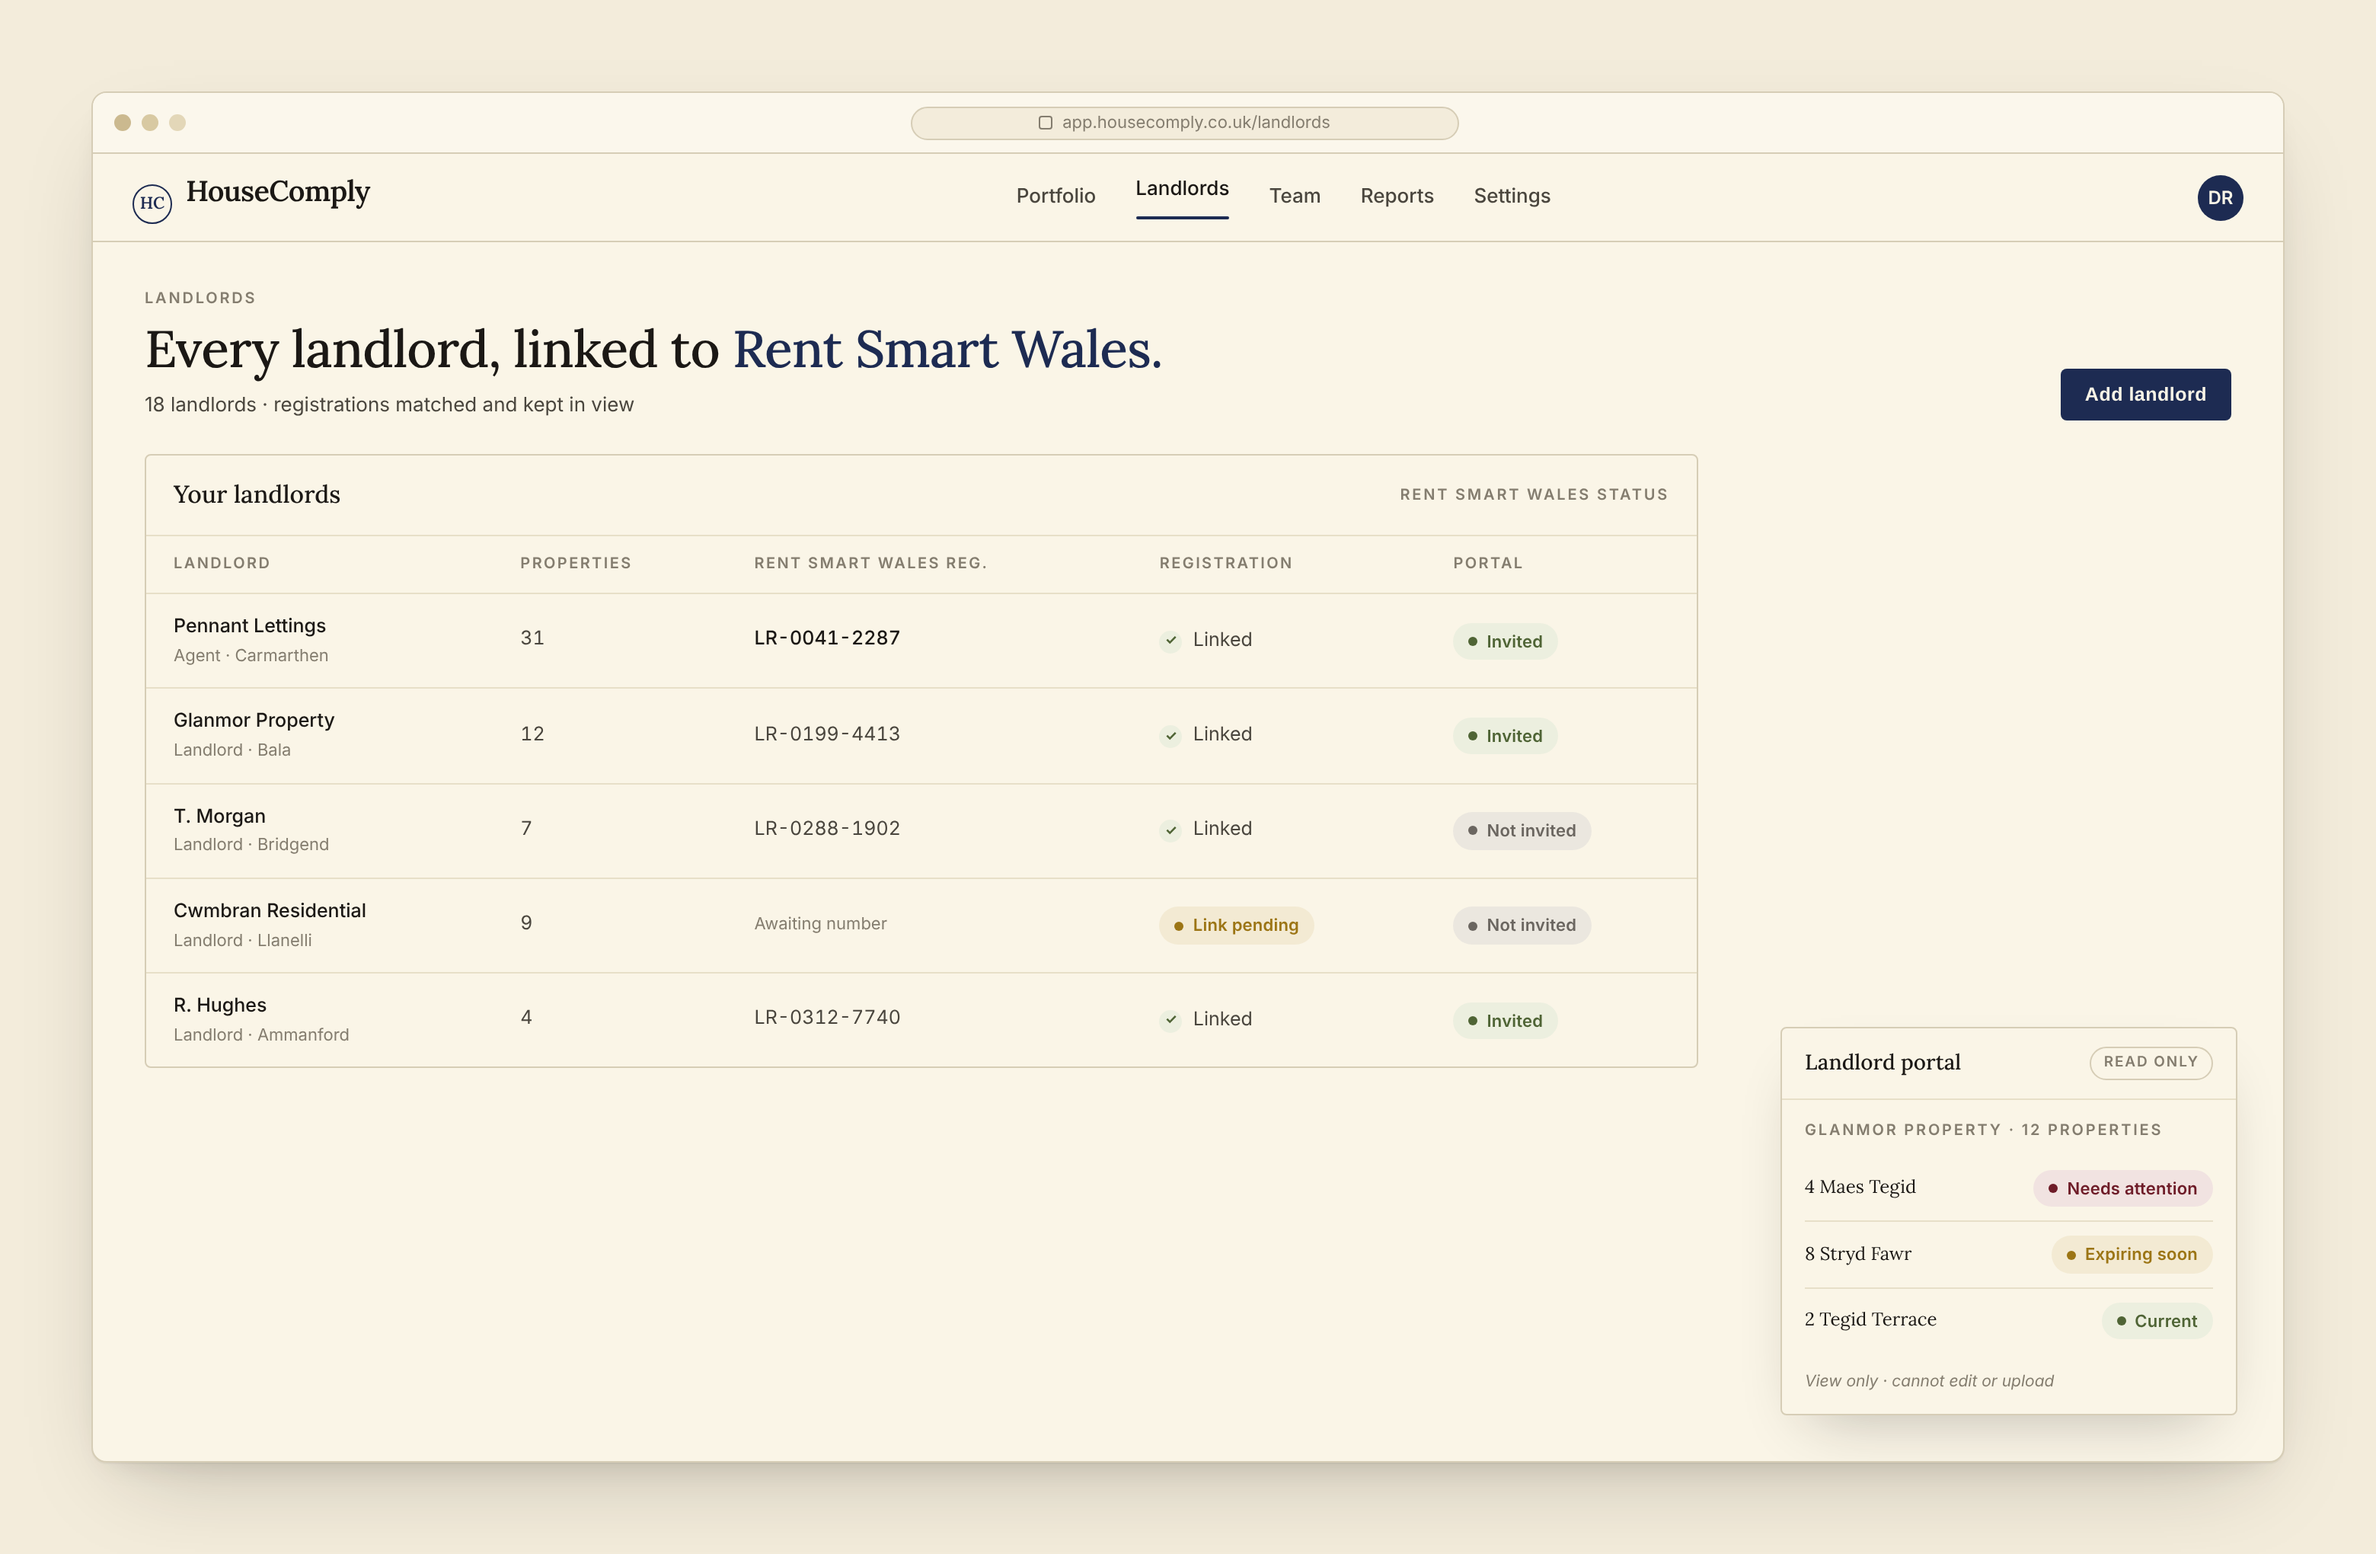
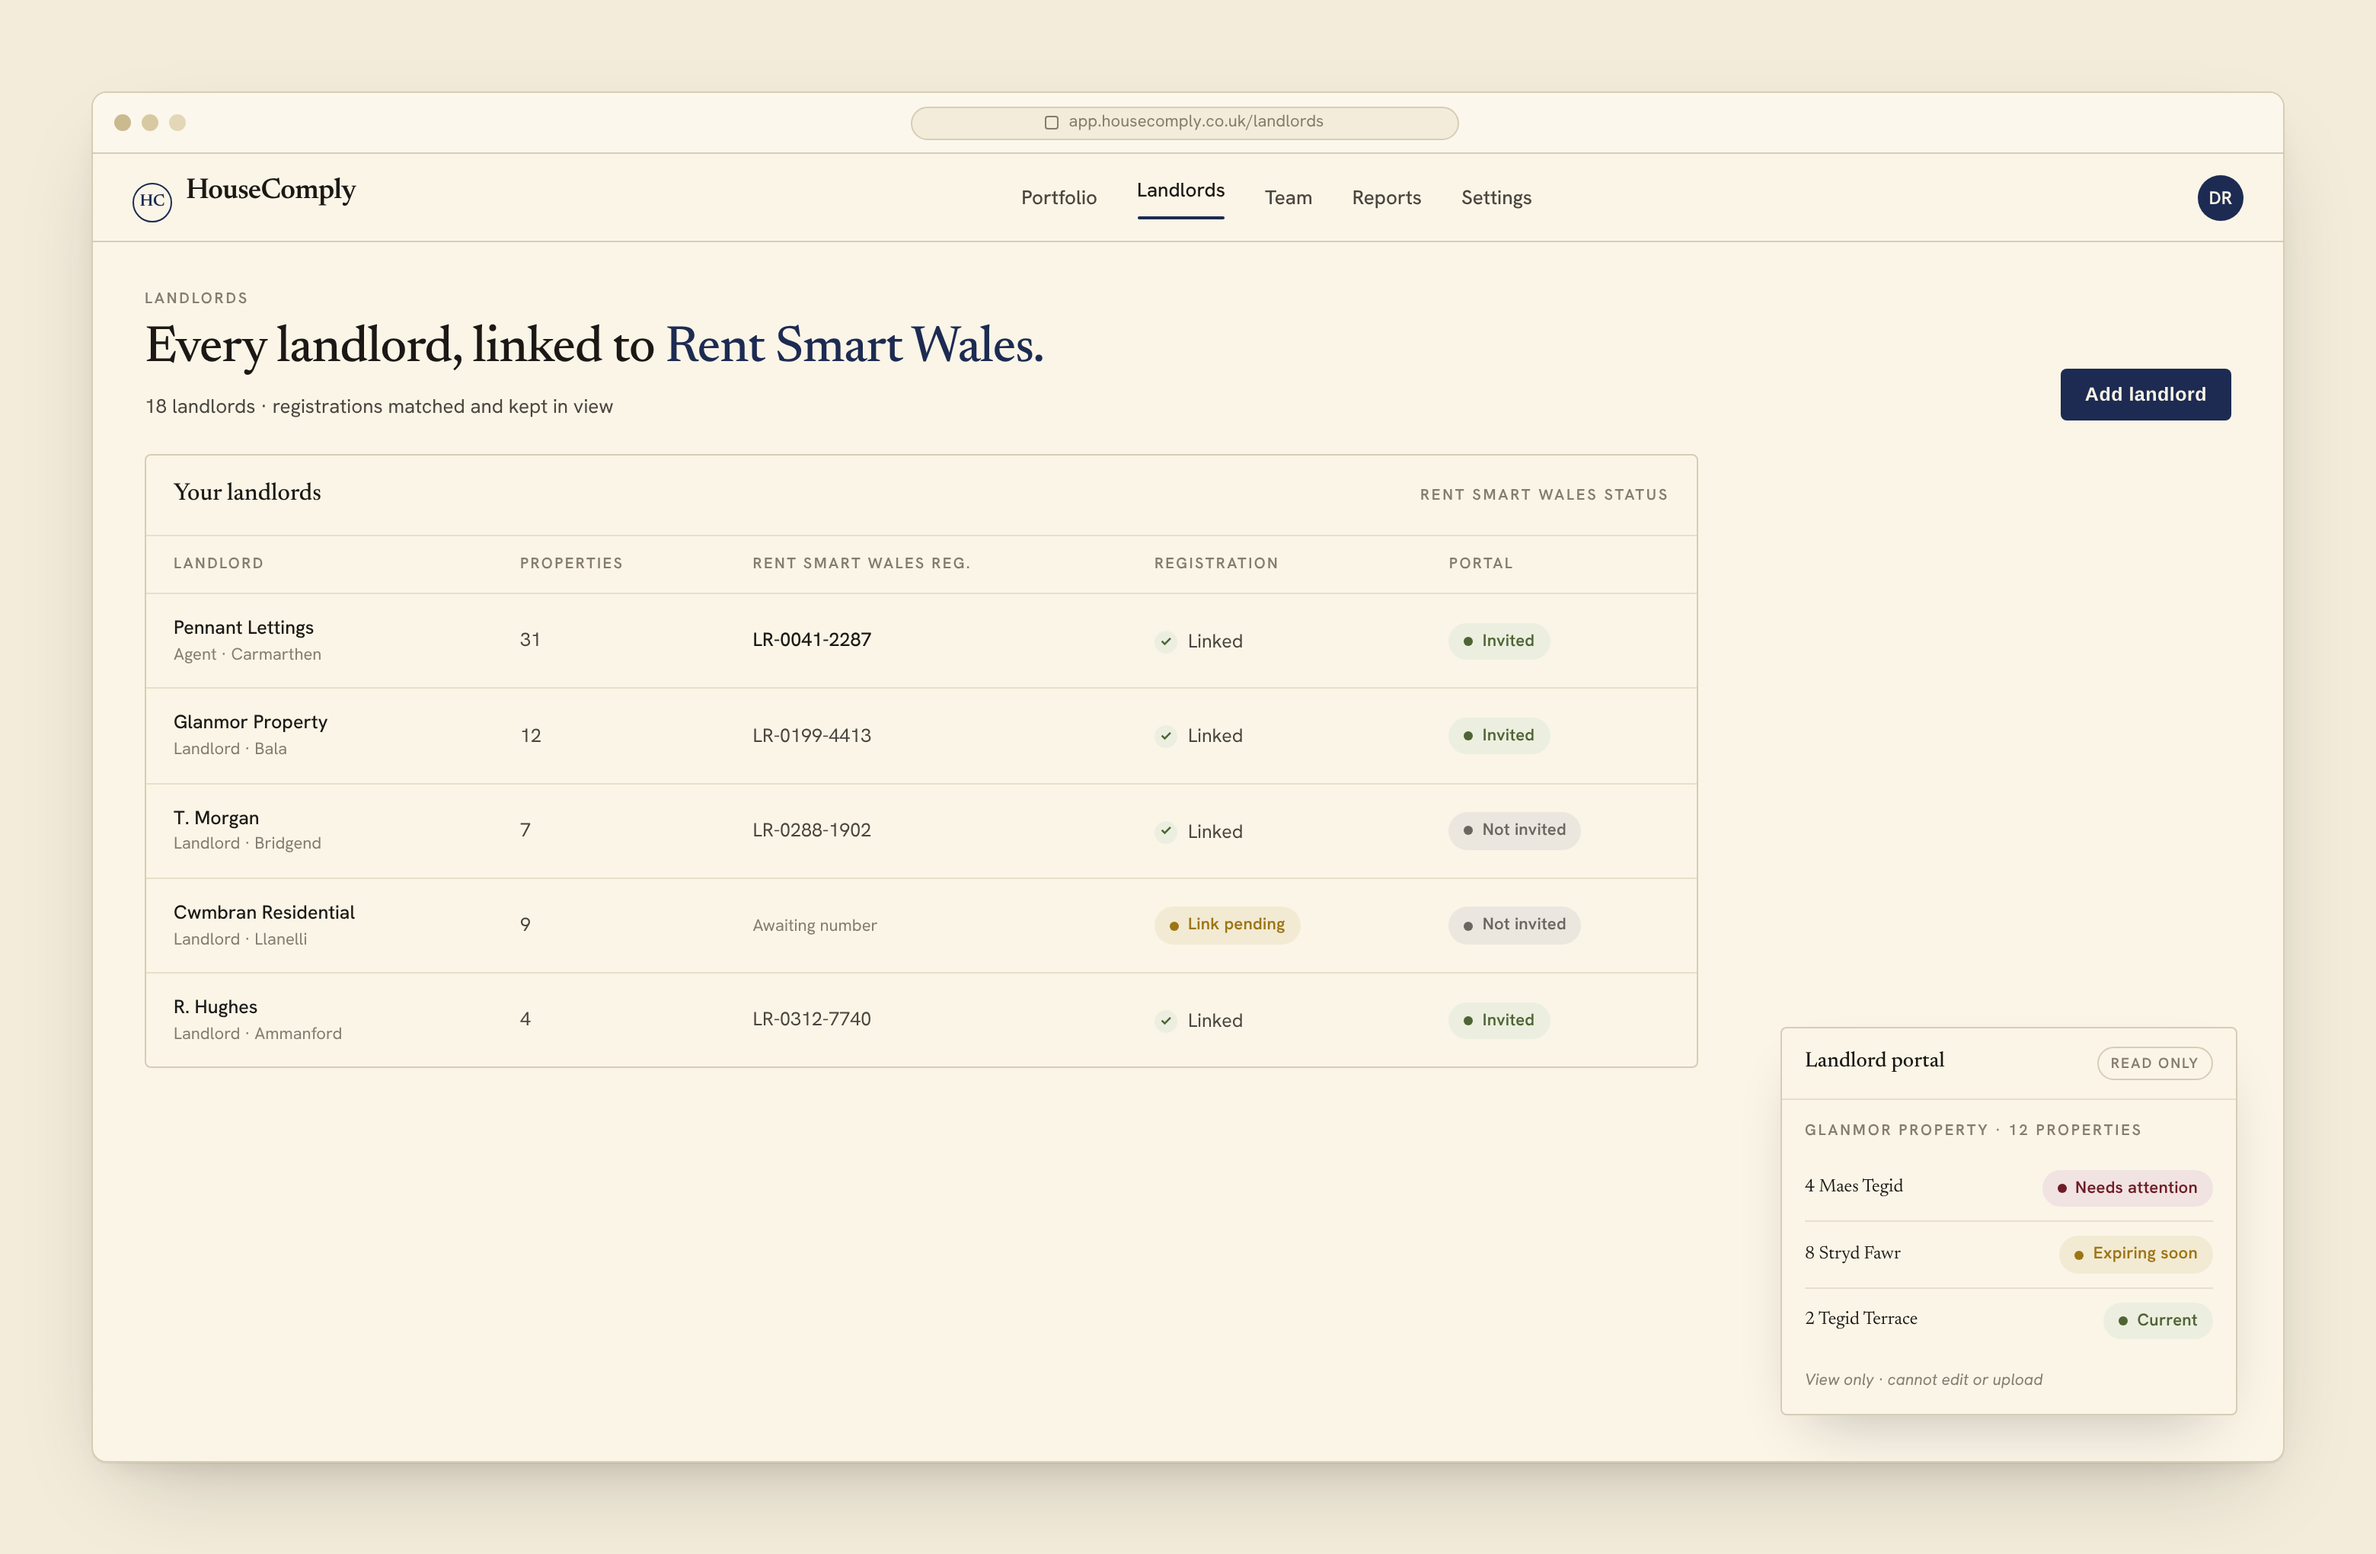
Re-render showcase screens in real brand fonts (Newsreader + Hanken Grotesk)
Swap the Lora/Inter stand-in stacks in build/app.css for the real brand
fonts (Newsreader serif, Hanken Grotesk sans), installed locally from the
google/fonts repo since the Google Fonts CDN is blocked in the sandbox.
Keep the Georgia/system-ui fallbacks. Re-render all four comps at 2x.
Demo data only: invented names, fake addresses, no emails, no RSW numbers.

Claude-Session: https://claude.ai/code/session_016ZQVbkcFvkTxsMCZ5vpTpg

diff --git a/homepage-showcase/build/app.css b/homepage-showcase/build/app.css
@@ -1,6 +1,6 @@
 /* HouseComply showcase — tokens from live site :root (housecomply-marketing/index.html).
-   Type: FINAL uses 'Newsreader' (serif) + 'Hanken Grotesk' (sans).
-   This v1 comp substitutes Lora/Inter because the CDN is blocked in the render sandbox. */
+   Type: 'Newsreader' (serif) + 'Hanken Grotesk' (sans), the real brand fonts.
+   Rendered with the fonts installed locally from the google/fonts repo (CDN blocked in sandbox). */
 :root{
   --parchment:#f3ecdb; --paper:#faf5e7; --paper2:#fbf7ec; --paper3:#f1e9d4;
   --ink:#1b1815; --ink-soft:#4a463e; --ink-faint:#847d6f;
@@ -9,8 +9,8 @@
   --pass:#4f6435; --fail:#6e1c28; --advisory:#9c7515; --missing:#6b6660;
   --pass-wash:#ecefdf; --fail-wash:#f1e3e1; --advisory-wash:#f3ead3; --missing-wash:#ebe7df;
   --radius:4px; --radius-sm:2px;
-  --serif:'Newsreader','Lora',Georgia,serif;
-  --sans:'Hanken Grotesk','Inter',system-ui,sans-serif;
+  --serif:'Newsreader',Georgia,serif;
+  --sans:'Hanken Grotesk',system-ui,sans-serif;
 }
 *,*::before,*::after{box-sizing:border-box;margin:0;padding:0}
 body{font-family:var(--sans);background:var(--parchment);color:var(--ink);-webkit-font-smoothing:antialiased;line-height:1.5}
